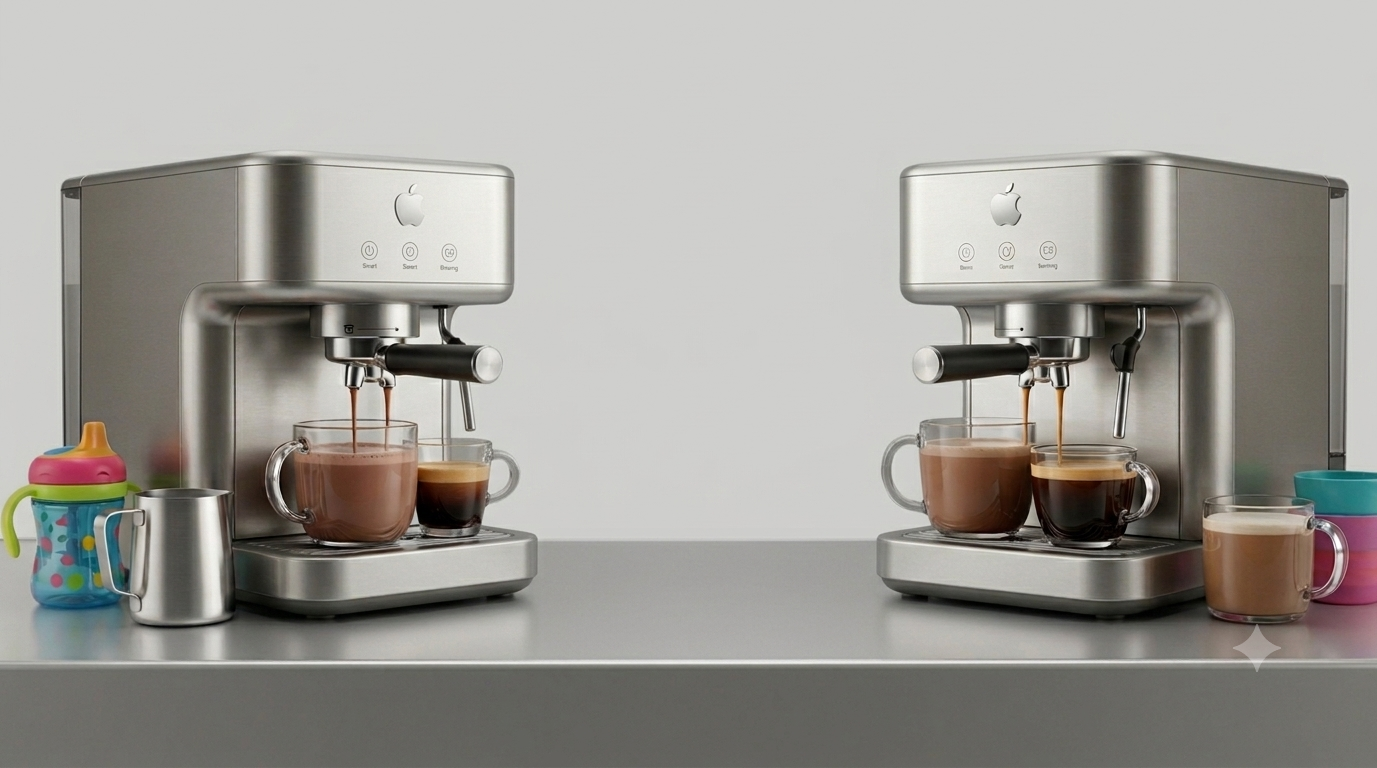
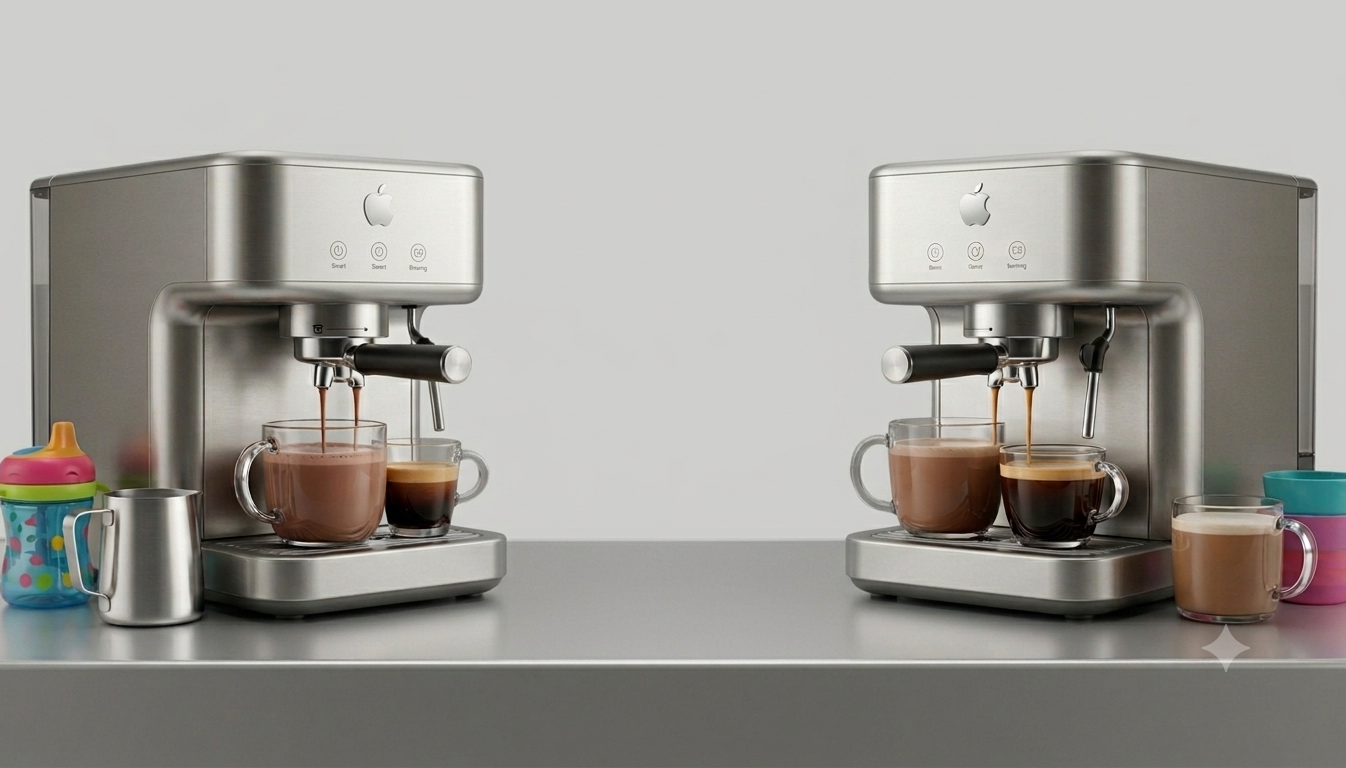
Änderungen iBrew Pro

diff --git a/main.css b/main.css
@@ -213,7 +213,9 @@ p {
     transition: all 0.3s ease;
 }
 
-.hero {
+.hero,
+.hero_family,
+.hero_pro {
     display: flex;
     flex-direction: column;
     /* Stapelt Bild und Text untereinander */
@@ -235,16 +237,6 @@ p {
     background-size: cover;
 }
 
-.hero_family {
-    display: flex;
-    flex-direction: column;
-    /* Stapelt Bild und Text untereinander */
-    margin-top: 55px;
-    /* Platz für die fixierte Navigationsleiste */
-    background-color: var(--bg-color);
-}
-
-/* Das Teaserbild wird auf dem Handy als eigenständiger, oberer Block dargestellt */
 .hero_family::before {
     content: "";
     display: block;
@@ -252,6 +244,18 @@ p {
     height: 100vh;
     /* Das Bild nimmt auf dem Handy die halbe Bildschirmhöhe ein */
     background-image: url('Bilder/family_teaser_mobile.png');
+    background-repeat: no-repeat;
+    background-position: center;
+    background-size: cover;
+}
+
+.hero_pro::before {
+    content: "";
+    display: block;
+    width: 100%;
+    height: 100vh;
+    /* Das Bild nimmt auf dem Handy die halbe Bildschirmhöhe ein */
+    background-image: url('Bilder/pro_teaser_mobile.png');
     background-repeat: no-repeat;
     background-position: center;
     background-size: cover;
@@ -1092,6 +1096,13 @@ p {
         /*Lücken zwischen einzelnen Stats voneinander*/
     }
 
+    /* WICHTIG: Das mobile Zusatzbild auf dem Desktop komplett unsichtbar machen */
+    .hero::before,
+    .hero_family::before,
+    .hero_pro::before {
+        display: none;
+    }
+
     .hero {
         position: relative;
         height: 100vh;
@@ -1107,11 +1118,6 @@ p {
         align-items: center;
         flex-direction: column;
         padding-top: 150px;
-    }
-
-    /* WICHTIG: Das mobile Zusatzbild auf dem Desktop komplett unsichtbar machen */
-    .hero::before {
-        display: none;
     }
 
     .hero_family {
@@ -1131,8 +1137,21 @@ p {
         padding-top: 150px;
     }
 
-    .hero_family::before {
-        display: none;
+    .hero_pro {
+        position: relative;
+        height: 100vh;
+        background-image: url("Bilder/pro_teaser.png");
+        /* Großes Desktop-Bild */
+        background-repeat: no-repeat;
+        background-position: center;
+        background-size: cover;
+
+        /* Flexbox aktivieren, um den Text oben mittig zu platzieren */
+        display: flex;
+        justify-content: flex-start;
+        align-items: center;
+        flex-direction: column;
+        padding-top: 150px;
     }
 
     /* Der Text-Container wird auf dem Desktop transparent, damit das Bild durchscheint */

diff --git a/ibrew_pro.html b/ibrew_pro.html
@@ -45,7 +45,7 @@
     </header>
 
     <main>
-        <section class="hero fade-in">
+        <section class="hero_pro fade-in">
             <div class="hero-content">
                 <h1>iBrew Pro.</h1>
                 <h2>Das Kraftpaket für Ihren Workflow.</h2>
@@ -61,21 +61,21 @@
             <div class="carousel-shell">
                 <div class="carousel" tabindex="0" aria-label="Highlights Galerie">
                     <article class="card card-image active" data-slide>
-                        <img src="Bilder/von oben vertikal.png" alt="Oben-Ansicht der Maschine und Zubehör" />
+                        <img src="Bilder/pro_gallery_1.png" alt="iBrew Pro im modernen Konferenzraum" title="iBrew Pro im modernen Konferenzraum" />
                         <div class="card-overlay">
                             <h2 class="h2_carousel">iBrew Pro im modernen Konferenzraum</h2>
                         </div>
                     </article>
 
-                    <article class="card card-image" data-slide>
-                        <img src="Bilder/side.png" alt="iBrew in einer stilvollen Küche" />
+                    <article class="card card-image active" data-slide>
+                        <img src="Bilder/pro_gallery_2.png" alt="Ultraschneller Espressobezug im Office" title="Ultraschneller Espressobezug im Office" />
                         <div class="card-overlay">
                             <h2 class="h2_carousel">Ultraschneller Espressobezug im Office</h2>
                         </div>
                     </article>
 
-                    <article class="card card-image" data-slide>
-                        <img src="Bilder/app.png" alt="Detailansicht der Bedienelemente und App" />
+                    <article class="card card-image active" data-slide>
+                        <img src="Bilder/pro_gallery_3.jpg" alt="Smarte Steuerung der iBrew Pro über das Mac-Ökosystem" title="Smarte Steuerung der iBrew Pro über das Mac-Ökosystem" />
                         <div class="card-overlay">
                             <h2 class="h2_carousel">Smarte Steuerung der iBrew Pro über das Mac-Ökosystem</h2>
                         </div>

diff --git a/ibrew_family.html b/ibrew_family.html
@@ -67,14 +67,14 @@
                         </div>
                     </article>
 
-                    <article class="card card-image" data-slide>
+                    <article class="card card-image active" data-slide>
                         <img src="Bilder/family_gallery_2.png" alt="iBrew in einer stilvollen Küche" />
                         <div class="card-overlay">
                             <h2 class="h2_carousel">Flüsterleise am frühen Morgen, damit alle in Ruhe ausschlafen können.</h2>
                         </div>
                     </article>
 
-                    <article class="card card-image" data-slide>
+                    <article class="card card-image active" data-slide>
                         <img src="Bilder/family_gallery_3.jpg" alt="Detailansicht der Bedienelemente und App" />
                         <div class="card-overlay">
                             <h2 class="h2_carousel">Ein Fingertipp für Papas Espresso, Mamas Cappuccino und den Kakao der Kinder.</h2>

diff --git a/index.html b/index.html
@@ -67,14 +67,14 @@
                         </div>
                     </article>
 
-                    <article class="card card-image" data-slide>
+                    <article class="card card-image active" data-slide>
                         <img src="Bilder/side.png" alt="iBrew in einer stilvollen Küche" />
                         <div class="card-overlay">
                             <h2 class="h2_carousel">Design für moderne Räume und ruhige Morgenmomente.</h2>
                         </div>
                     </article>
 
-                    <article class="card card-image" data-slide>
+                    <article class="card card-image active" data-slide>
                         <img src="Bilder/app.png" alt="Detailansicht der Bedienelemente und App" />
                         <div class="card-overlay">
                             <h2 class="h2_carousel">App-Steuerung, Profile und präzise Temperaturwahl.</h2>